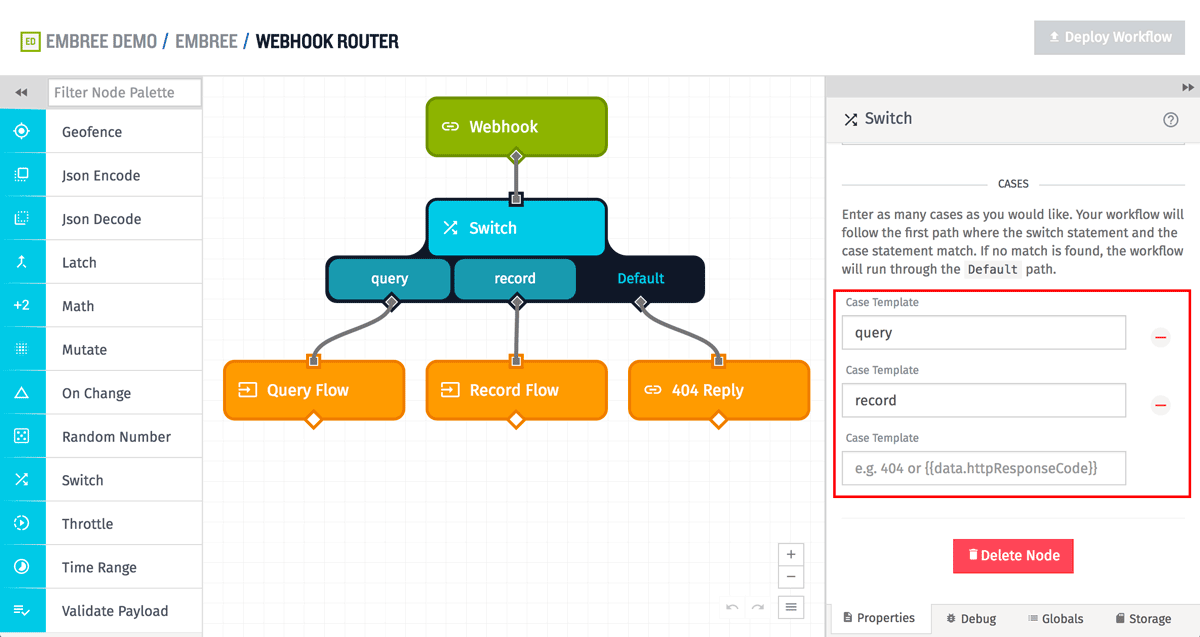
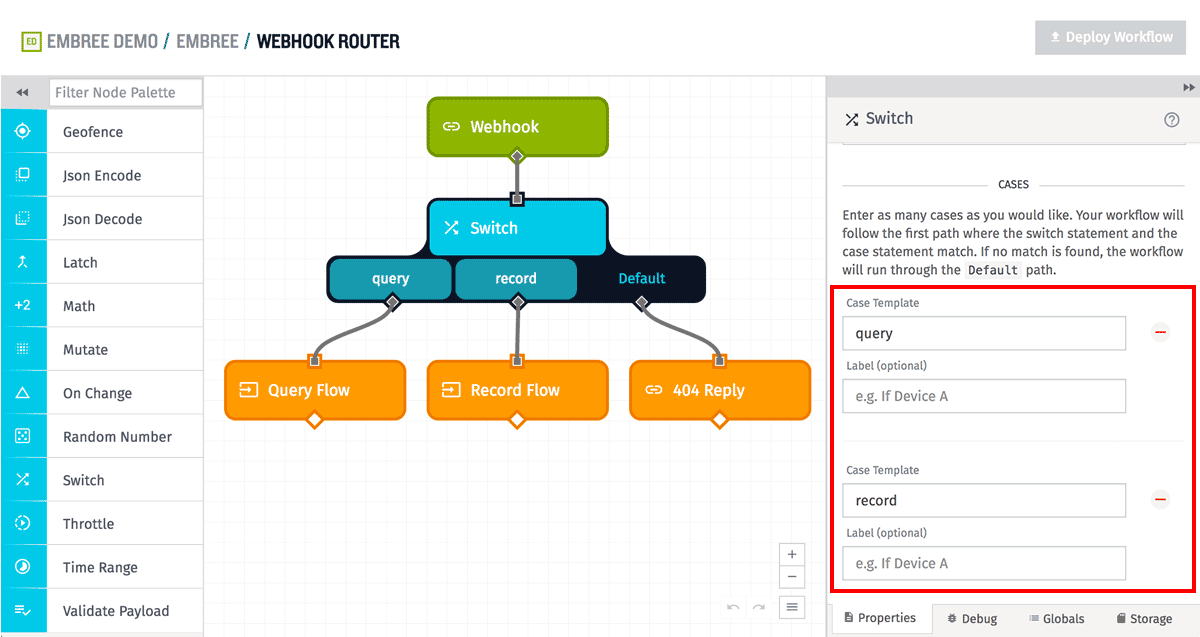
SP-1408 documenting switch node labels

diff --git a/docs/workflows/logic/switch.md b/docs/workflows/logic/switch.md
@@ -10,7 +10,9 @@ To configure a switch node, first you fill in the 'Switch Template' - a [string 
 
 ![Switch Node Switch Template](/images/workflows/logic/switch-node-switch-template.png "Switch Node Switch Template")
 
-Next, you fill in various `Case Templates`, which are also [string template](/workflows/accessing-payload-data/#string-templates) - one for each possible branch for the switch node. When the workflow runs, the first evaluated case template that matches the evaluated switch template will be the branch that is followed by the workflow. If no cases match, then the `Default` branch is used instead.
+Next, you fill in various `Case Templates`, which are also [string template](/workflows/accessing-payload-data/#string-templates) - one for each possible branch for the switch node. You may optionally provide a label for each case, which only affects how the branch is displayed on the workflow canvas. A case's label has no effect on its evaluation. 
+
+When the workflow runs, the first evaluated case template that matches the evaluated switch template will be the branch that is followed by the workflow. If no cases match, then the `Default` branch is used instead.
 
 ![Switch Node Case Templates](/images/workflows/logic/switch-node-case-templates.png "Switch Node Case Templates")
 
